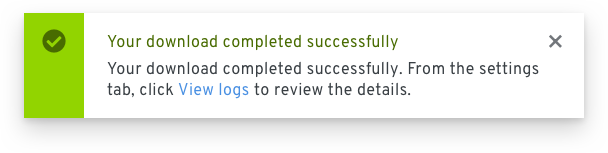
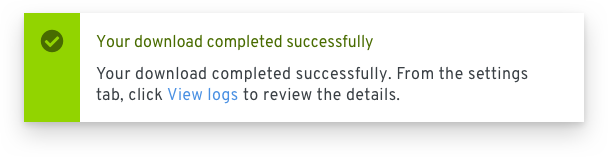
Update Alerts and Notifications to include Inline alert (#1138)
* Update alerts and notifications to cover new inline alert styling

* remove inline notification graphic

* Add back inline notification graphic

* Updates 'alert-types' images to stack examples

* ... and update text to point to that

* Remove 'Alert-types-2'

* Replace 'alert-types-2.png'

* Update images per latest visuals

* Update 'alert-types-2.png' with correct styles

Changed region(s): [[0.0312, 0.0784, 0.9688, 0.7843], [0.9062, 0.2353, 0.9375, 0.3137]]

diff --git a/packages/patternfly-4/content/design-guidelines/usage-and-behavior/alerts-and-notifications/design.md b/packages/patternfly-4/content/design-guidelines/usage-and-behavior/alerts-and-notifications/design.md
@@ -6,9 +6,9 @@ Alerts are used when the system wants to notify the user about some status or ot
 
 ## Elements
 ### Alert
-Alerts are used to communicate status information to the user without blocking other actions through the user interface.
+Alerts are used to communicate status information to the user without blocking other actions through the user interface. There are two styles that can be applied to an alert depending on whether it is intended as an [inline](#inline-alerts) or [toast](#toast-alerts) alert. Regardless of the styling, the basic elements of all alerts are consistent.
 
-![alert types](./img/alerts.png)
+![alert types](./img/alert-types-2.png)
 
 1. **Status area:** Use an icon and color to indicate status or severity of the alert.
 2. **Alert title:** Include a short descriptive message. Long message text will wrap. Text color is coded to match alert type.
@@ -49,6 +49,10 @@ Inline alerts are synchronous and appear as the result of a user action or upon 
 ![inline notification placement](./img/inline-notification.png)
 
 For notifications with a severity of info or warning a close button is always recommended. If Close is not included, the alert will dismiss only when the condition raising it has been cleared.
+
+In addition to static message content and links, interactive elements may optionally be included in the body of an inline alert when the user is being asked for some input or feedback.
+
+![interactive inline alert](./img/inline-interactive-alert.png)
 
 #### When to use
 Use an inline alert when you want to return feedback as the result of a user action within a page while allowing the user to continue working. Common uses for inline alerts include form validation or warning messages that should not interrupt the user’s flow.
